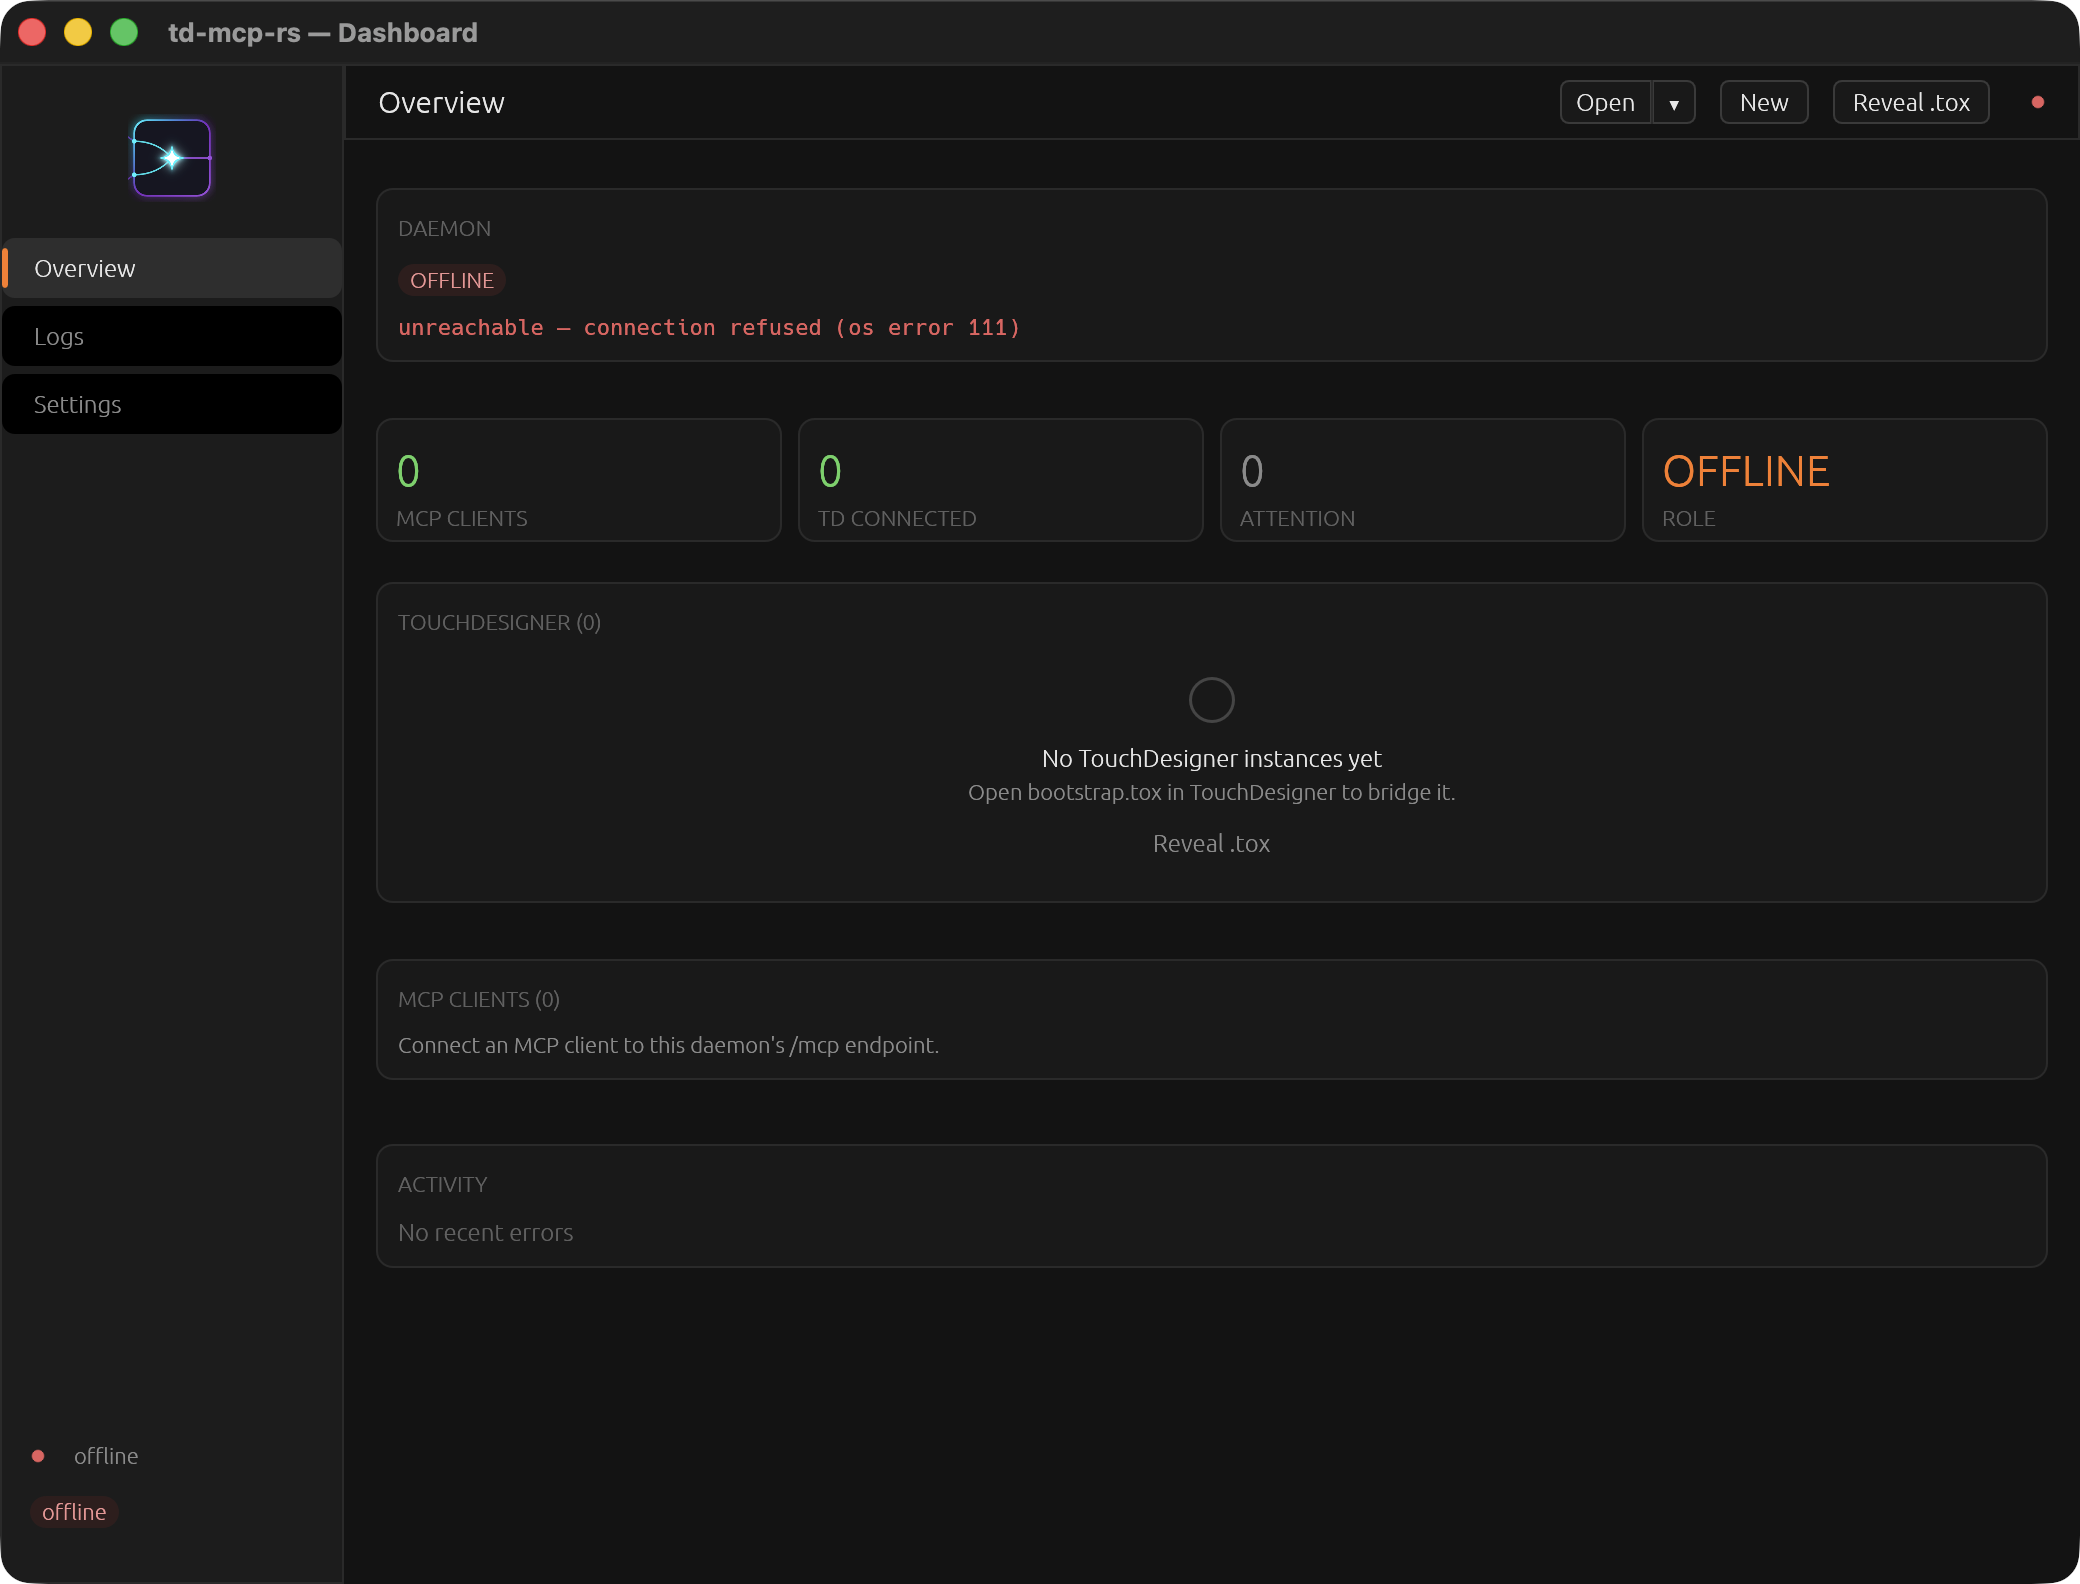
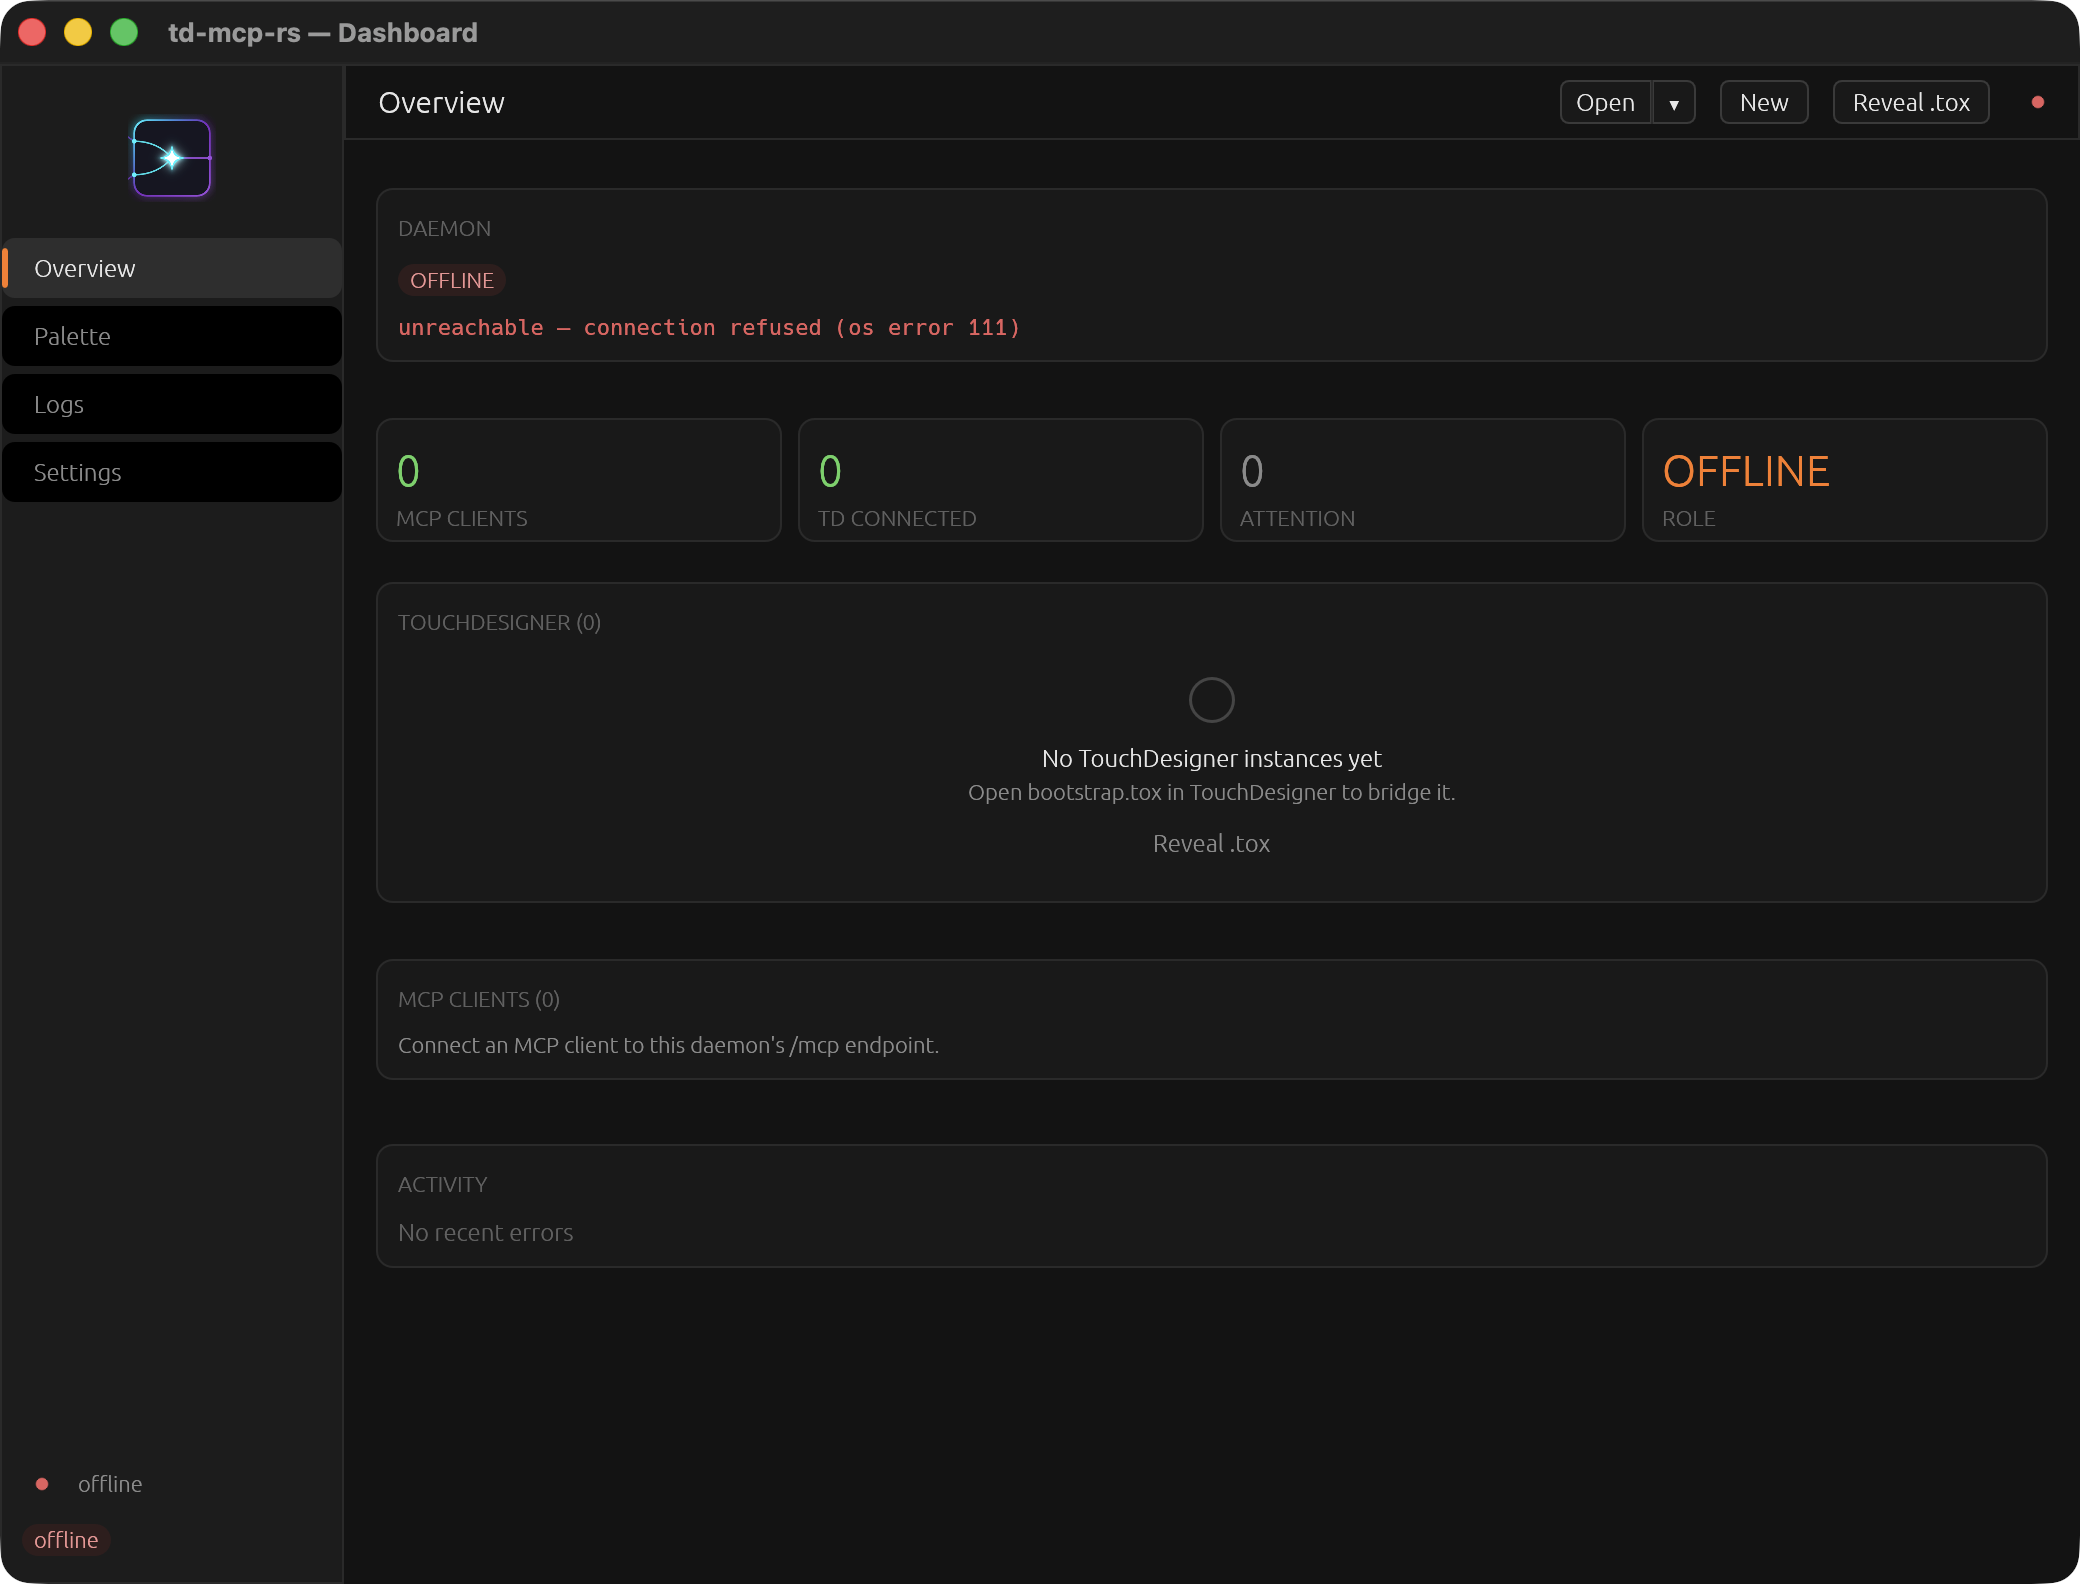
fix: screens

Changed region(s): [[0.0, 0.2475, 0.1875, 0.3403], [0.0312, 0.928, 0.0625, 0.959]]

diff --git a/crates/tdmcp-gui/src/preview.rs b/crates/tdmcp-gui/src/preview.rs
@@ -249,7 +249,7 @@ const SLAVE_ID: &str = "91ac33dd-02ea-49ab-8d10-9988aabbccdd";
 fn inject_status(app: &mut DashboardApp, role: &str, mcp: usize, _port: u16) {
     let body = json!({
         "ok": true,
-        "version": "0.9.3",
+        "version": "0.1.4",
         "pid": std::process::id(),
         "mcpSessionCount": mcp,
         "bridgeCount": 2,
@@ -285,7 +285,7 @@ fn sessions_fixture() -> String {
 fn slaves_fixture() -> String {
     json!({
         "slaves": [
-            {"daemonId": SLAVE_ID, "hostname": "studio-b", "version": "0.9.1",
+            {"daemonId": SLAVE_ID, "hostname": "studio-b", "version": "0.1.3",
              "baseUrl": "http://192.168.1.50:9860", "authToken": "",
              "reachability": "reachable", "processCount": 3}
         ]
@@ -295,7 +295,7 @@ fn slaves_fixture() -> String {
 
 const PROBE_FIXTURE: &str = r#"{
     "role": "slave",
-    "version": "0.9.1",
+    "version": "0.1.3",
     "hostname": "studio-c",
     "daemonId": "55667788-aabb-4cdd-8eef-001122334455"
 }"#;
@@ -308,7 +308,7 @@ fn scan_hits() -> Vec<ScanHit> {
             role: "slave".to_owned(),
             hostname: "studio-b".to_owned(),
             daemon_id: SLAVE_ID.to_owned(),
-            version: "0.9.1".to_owned(),
+            version: "0.1.3".to_owned(),
         },
         ScanHit {
             host: "192.168.1.62".to_owned(),
@@ -316,7 +316,7 @@ fn scan_hits() -> Vec<ScanHit> {
             role: "slave".to_owned(),
             hostname: "studio-c".to_owned(),
             daemon_id: "55667788-aabb-4cdd-8eef-001122334455".to_owned(),
-            version: "0.9.1".to_owned(),
+            version: "0.1.3".to_owned(),
         },
     ]
 }

diff --git a/README.md b/README.md
@@ -15,7 +15,16 @@ your whole studio, with whatever assistant you already use.**
 [![Platform](https://img.shields.io/badge/Windows%20%C2%B7%20macOS-b58cff?style=flat-square)](#step-1--install-the-daemon)
 [![Buy me a coffee](https://img.shields.io/badge/%E2%98%95_Buy_me_a_coffee-FFDD00?style=flat-square&logo=buymeacoffee&logoColor=000000)](https://buymeacoffee.com/asyade)
 
-<img src="docs/screens/overview-populated.png" alt="The td-mcp-rs dashboard showing a live TouchDesigner fleet across two machines" width="860">
+<table>
+  <tr>
+    <td width="50%" align="center"><img src="docs/screens/overview-populated.png" alt="Overview tab — every TouchDesigner and assistant client, live" width="420"><br><sub><b>Overview</b> · fleet, clients and activity across machines</sub></td>
+    <td width="50%" align="center"><img src="docs/screens/palette-tree.png" alt="Palette tab — browse your component library with previews and agent-ready cards" width="420"><br><sub><b>Palette</b> · your components, with agent-ready reference cards</sub></td>
+  </tr>
+  <tr>
+    <td width="50%" align="center"><img src="docs/screens/logs-filtered.png" alt="Logs tab — filter, search and follow the daemon log" width="420"><br><sub><b>Logs</b> · filter, search, follow or pause</sub></td>
+    <td width="50%" align="center"><img src="docs/screens/settings-dirty.png" alt="Settings tab — every knob with honest save gating" width="420"><br><sub><b>Settings</b> · every knob, honest save gating</sub></td>
+  </tr>
+</table>
 
 **[Quick start](#quick-start) · [What you can ask for](#what-you-can-actually-ask-for) · [Federation](#federation--one-agent-many-machines) · [The toolbox](#the-toolbox) · [Full install guide](docs/INSTALL.md)**
 
